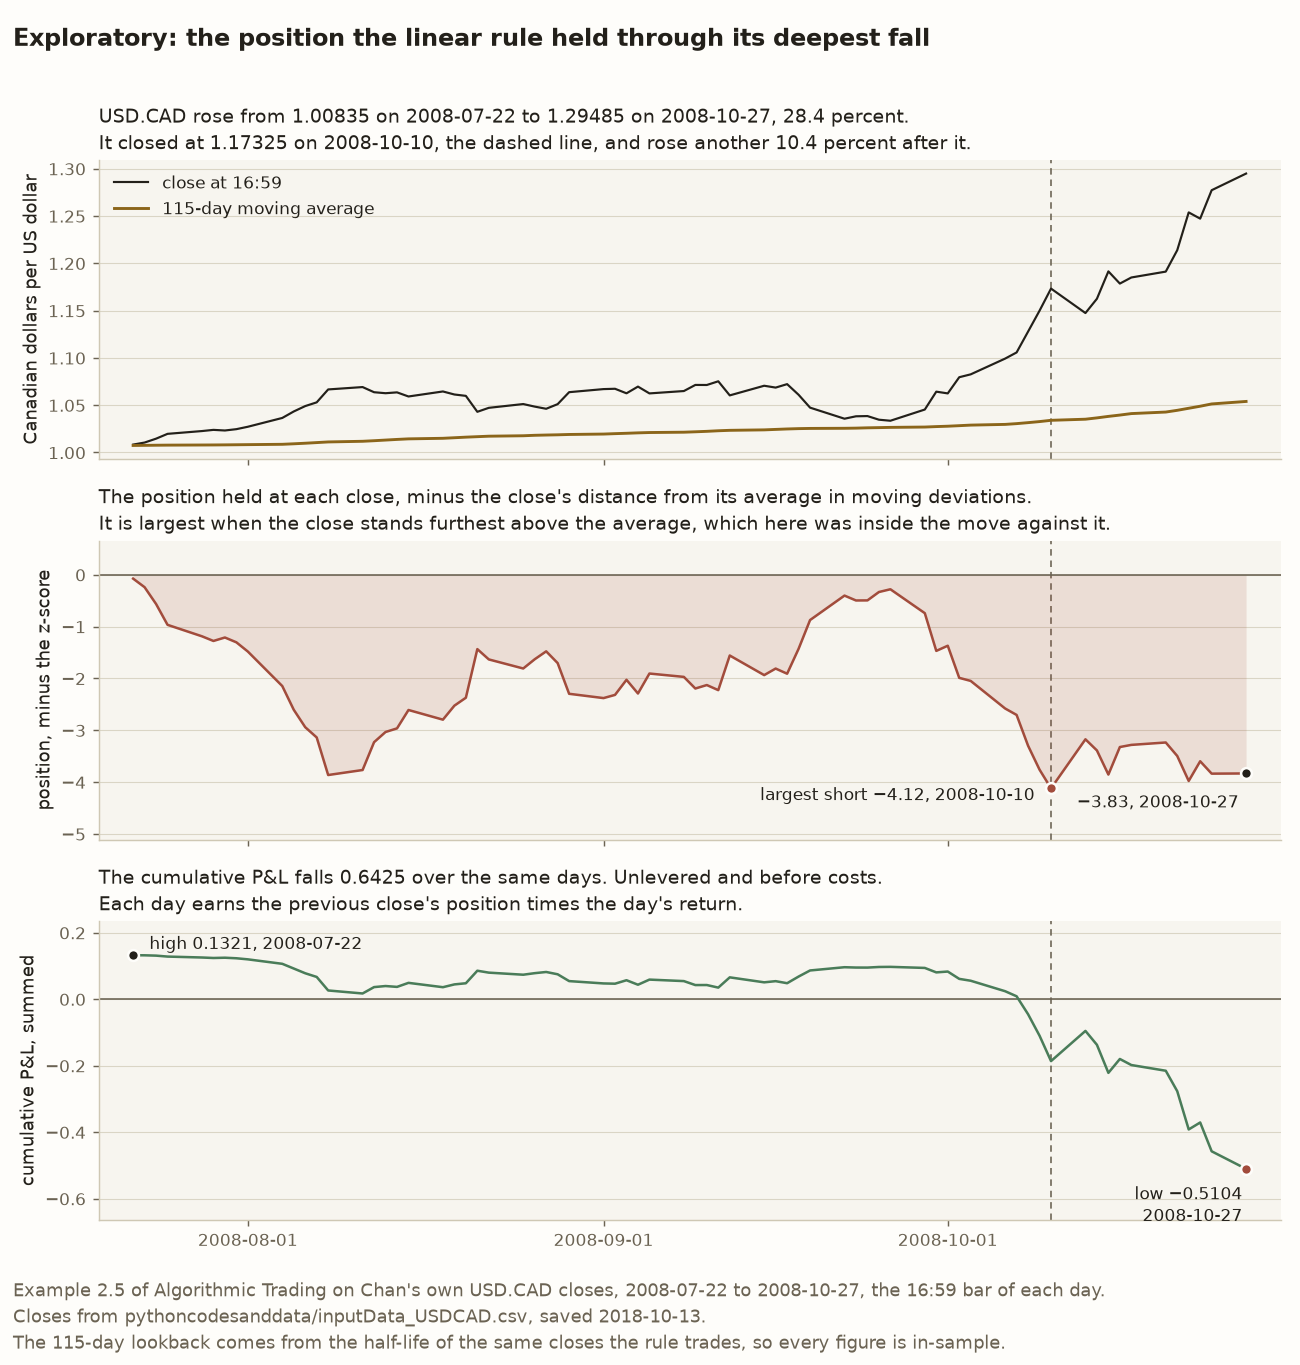
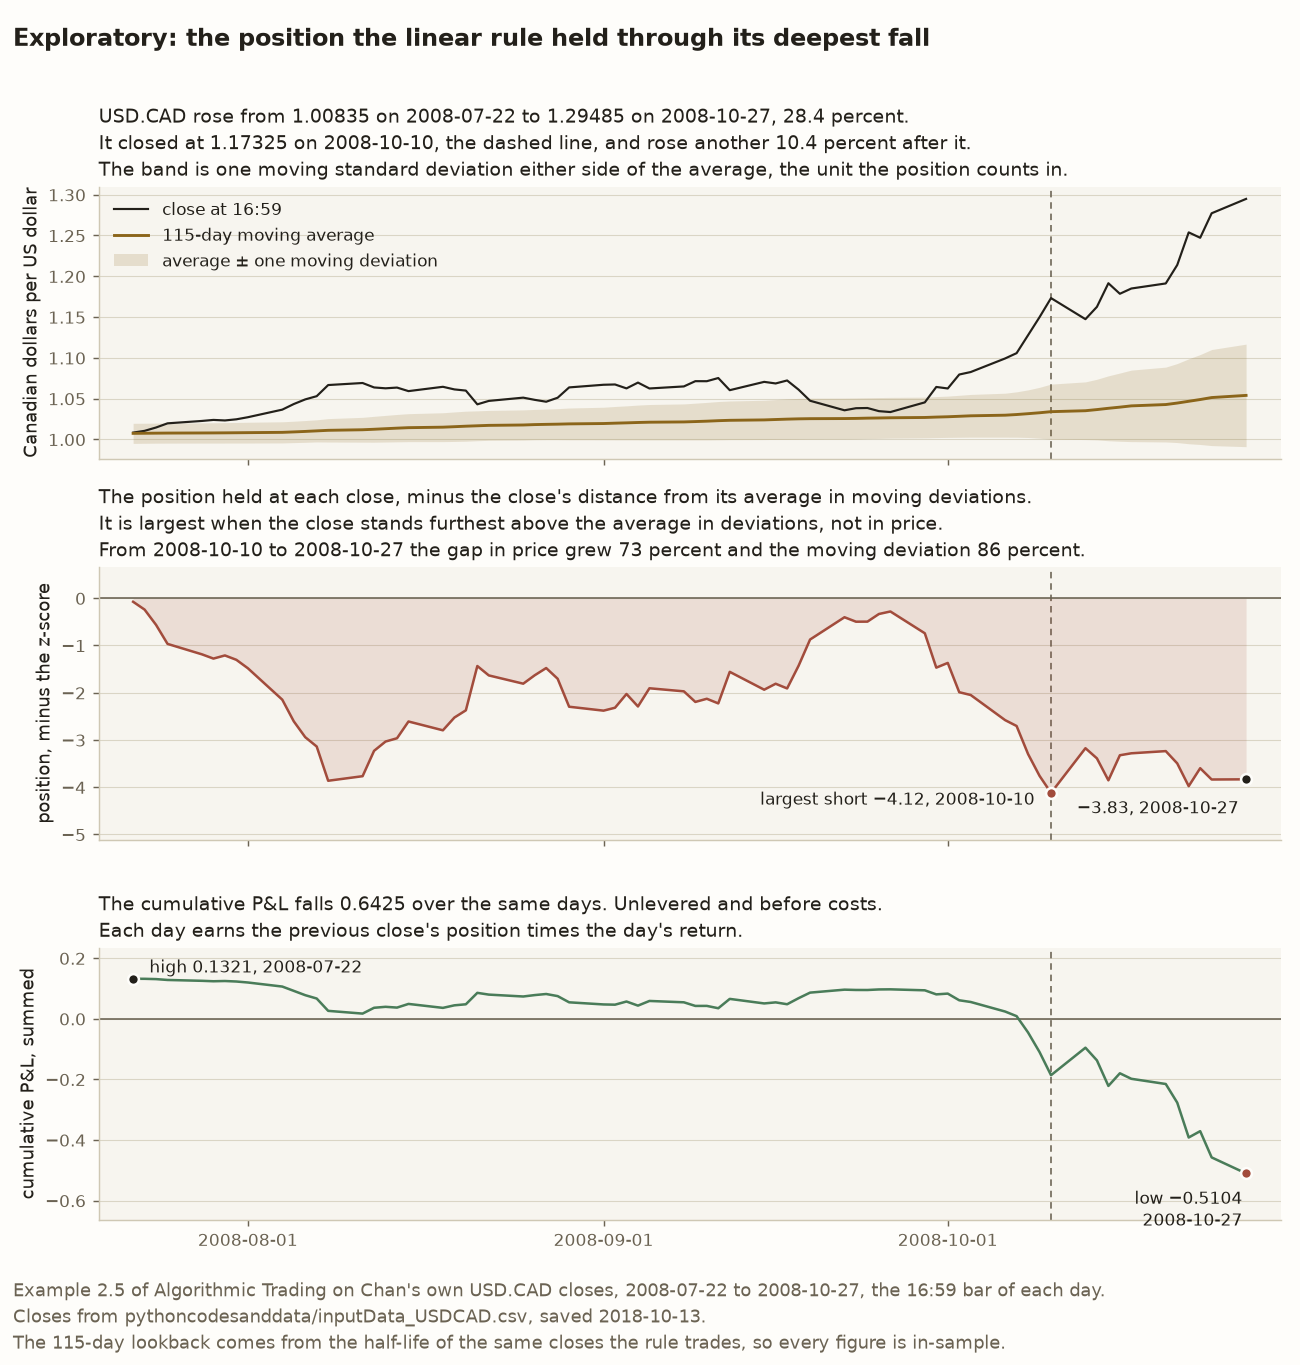
fix(figures): say the Lesson 4 chart's largest short is furthest above the average in deviations, and draw the deviation band
The middle panel of usdcad_fall_position.png said the position is largest
when the close stands furthest above the average. In price that is false.
The gap is widest on 2008-10-27, 0.2409 against 0.1392 on 2008-10-10, yet
the short there is −3.83 against −4.12. The position counts the gap in
115-day moving standard deviations, and the deviation grew from 0.0338 to
0.0628 over those days.

The heading now says the largest short is furthest above the average in
deviations, not in price, and that from 2008-10-10 to 2008-10-27 the gap
grew 73 percent and the moving deviation 86 percent. Both percentages are
read from the run. The top panel draws a band of one moving deviation either
side of the average, so the widening is visible, and its heading and legend
name the band.

New tests pin the band as movingAvg ± movingStd over the run's lookback, its
half-width on the two marked days, and that the widest gap in price falls on
a different day from the largest short. The post's alt text and caption and
the README's list of panels describe the band.

diff --git a/tests/test_usdcad_mean_reversion_figures.py b/tests/test_usdcad_mean_reversion_figures.py
@@ -32,7 +32,7 @@ from matplotlib.dates import DateFormatter, MonthLocator, YearLocator, date2num,
 
 from chan import paths, usdcad_mean_reversion
 from chan import usdcad_mean_reversion_figures as figures
-from chan.matlab_helpers import moving_avg
+from chan.matlab_helpers import moving_avg, moving_std
 from chan.paths import FIGURES_DIR
 from chan.regime_figure import ACCENT, GOOD, INK, LOST
 from chan.series import WindowCrossesScaleBreak
@@ -47,6 +47,7 @@ from chan.usdcad_mean_reversion_figures import (
     make_usdcad_fall_figure,
     make_usdcad_figure,
     moving_average,
+    moving_deviation,
     position,
     signed,
 )
@@ -417,6 +418,14 @@ def _anchor(ax, gid: str) -> tuple[pd.Timestamp, float]:
     return pd.Timestamp(day), float(value)
 
 
+def _band(ax) -> pd.DataFrame:
+    """The deviation band's lower and upper edge on each day it covers, read from its outline."""
+    outline = _by_gid(ax.collections)["deviation-band"].get_paths()[0].vertices
+    edges = pd.DataFrame(outline, columns=["day", "y"]).groupby("day")["y"].agg(["min", "max"])
+    edges.index = [pd.Timestamp(num2date(d)).tz_localize(None) for d in edges.index]
+    return edges.rename(columns={"min": "low", "max": "high"})
+
+
 class TestTheFall:
     """Lesson 4's figure, three panels on the 70 closes from the peak to the trough."""
 
@@ -506,16 +515,86 @@ class TestTheFallCloses:
         assert same_color(lines["closes"].get_color(), INK)
         assert same_color(lines["moving-average"].get_color(), ACCENT)
 
-    def test_the_heading_names_the_rise_and_the_close_on_the_dashed_day(self, fall_axes) -> None:
+    def test_the_heading_names_the_rise_the_close_on_the_dashed_day_and_the_band(
+        self, fall_axes
+    ) -> None:
         assert _title(fall_axes["closes"]) == (
             "USD.CAD rose from 1.00835 on 2008-07-22 to 1.29485 on 2008-10-27, 28.4 percent.\n"
             "It closed at 1.17325 on 2008-10-10, the dashed line, and rose another 10.4 "
-            "percent after it."
+            "percent after it.\nThe band is one moving standard deviation either side of the "
+            "average, the unit the position counts in."
         ), SPEC
 
-    def test_the_legend_names_both_lines(self, fall_axes) -> None:
+    def test_the_legend_names_both_lines_and_the_band(self, fall_axes) -> None:
         legend = [t.get_text() for t in fall_axes["closes"].get_legend().get_texts()]
-        assert legend == ["close at 16:59", "115-day moving average"]
+        assert legend == [
+            "close at 16:59",
+            "115-day moving average",
+            "average ± one moving deviation",
+        ]
+
+
+class TestTheFallBand:
+    """The band of one moving deviation either side of the average, in the top panel.
+
+    The position counts the close's distance from the average in moving
+    deviations, so the band is what shows that a wider gap in price on the
+    trough day counted for fewer deviations than the gap on the day of the
+    largest short. The two deviations are ``movingStd`` over the run's 115-day
+    lookback on the vintage and specification ``SPEC`` names.
+    """
+
+    def test_it_is_movingstd_either_side_of_movingavg_on_every_day_of_the_fall(
+        self, fall_axes, result
+    ) -> None:
+        days = fall_days(result)
+        y = result.closes.to_numpy(dtype=float)
+        average = pd.Series(moving_avg(y, 115), index=result.closes.index)[days]
+        deviation = pd.Series(moving_std(y, 115), index=result.closes.index)[days]
+        band = _band(fall_axes["closes"])
+        assert list(band.index) == list(days), SPEC
+        np.testing.assert_allclose(band["low"], average - deviation, rtol=0, atol=1e-12)
+        np.testing.assert_allclose(band["high"], average + deviation, rtol=0, atol=1e-12)
+        np.testing.assert_array_equal(moving_deviation(result)[days].to_numpy(), deviation)
+
+    def test_its_half_width_is_the_moving_deviation_on_the_two_marked_days(self, fall_axes) -> None:
+        band = _band(fall_axes["closes"])
+        half = (band["high"] - band["low"]) / 2
+        assert half[DEEPEST] == pytest.approx(0.0337985635, abs=5e-11), SPEC
+        assert half[TROUGH] == pytest.approx(0.0628484665, abs=5e-11), SPEC
+
+    def test_the_deviation_is_wider_on_the_trough_day_than_on_the_day_of_the_largest_short(
+        self, fall_axes
+    ) -> None:
+        band = _band(fall_axes["closes"])
+        half = (band["high"] - band["low"]) / 2
+        assert half[TROUGH] > half[DEEPEST], SPEC
+
+    def test_the_largest_short_is_not_on_the_day_of_the_widest_gap_in_price(
+        self, fall_axes
+    ) -> None:
+        """What the middle panel's heading says, so the heading cannot silently go false.
+
+        The gap in price is widest on the trough day, 0.2409000000 against
+        0.1392452174 on the day of the largest short, and the short there is
+        still smaller."""
+        lines = _by_gid(fall_axes["closes"].lines)
+        days = _days(lines["closes"])
+        gap = pd.Series(
+            np.asarray(lines["closes"].get_ydata())
+            - np.asarray(lines["moving-average"].get_ydata()),
+            index=days,
+        )
+        held = pd.Series(_by_gid(fall_axes["position"].lines)["position"].get_ydata(), index=days)
+        assert gap.idxmax() == TROUGH, SPEC
+        assert held.idxmin() == DEEPEST, SPEC
+        assert gap.idxmax() != held.idxmin(), SPEC
+        assert gap[TROUGH] == pytest.approx(0.2409000000, abs=5e-11), SPEC
+        assert gap[DEEPEST] == pytest.approx(0.1392452174, abs=5e-11), SPEC
+
+    def test_it_is_the_average_colour(self, fall_axes) -> None:
+        band = _by_gid(fall_axes["closes"].collections)["deviation-band"]
+        assert same_color(band.get_facecolor()[0][:3], ACCENT)
 
 
 class TestTheFallPosition:
@@ -560,8 +639,9 @@ class TestTheFallPosition:
         assert _title(fall_axes["position"]) == (
             "The position held at each close, minus the close's distance from its average in "
             "moving deviations.\nIt is largest when the close stands furthest above the "
-            "average, which here was inside the move against it."
-        )
+            "average in deviations, not in price.\nFrom 2008-10-10 to 2008-10-27 the gap in "
+            "price grew 73 percent and the moving deviation 86 percent."
+        ), SPEC
         assert fall_axes["position"].get_ylabel() == "position, minus the z-score"
 
 
@@ -653,6 +733,11 @@ class TestTheFallFollowsTheRun:
         assert _by_gid(drawn["closes"].lines)["moving-average"].get_label() == (
             "106-day moving average"
         )
+        y = run.closes.to_numpy(dtype=float)
+        deviation = pd.Series(moving_std(y, 106), index=run.closes.index)[days]
+        band = _band(drawn["closes"])
+        np.testing.assert_allclose((band["high"] - band["low"]) / 2, deviation, rtol=0, atol=1e-12)
+        assert "From 2008-10-15 to 2008-10-27 the gap in price grew" in _title(drawn["position"])
 
     def test_none_of_them_is_the_committed_runs(self, drawn) -> None:
         printed = " ".join(
@@ -662,10 +747,20 @@ class TestTheFallFollowsTheRun:
                 _text(drawn["pnl"], "peak-label"),
                 _text(drawn["pnl"], "trough-label"),
                 _title(drawn["closes"]),
+                _title(drawn["position"]),
                 _title(drawn["pnl"]),
             ]
         )
-        for committed in ("−4.12", "−3.83", "0.1321", "−0.5104", "0.6425", "2008-10-10"):
+        for committed in (
+            "−4.12",
+            "−3.83",
+            "0.1321",
+            "−0.5104",
+            "0.6425",
+            "2008-10-10",
+            "73 percent",
+            "86 percent",
+        ):
             assert committed not in printed, committed
 
     def test_the_window_follows_the_runs_peak(self, tmp_path, sources) -> None:

diff --git a/src/chan/usdcad_mean_reversion_figures.py b/src/chan/usdcad_mean_reversion_figures.py
@@ -18,7 +18,11 @@ Lesson 4 of the post then reads the deepest fall day by day, and
 one date axis from the fall's peak to its trough, and a thin vertical line
 crosses all three on the day of the largest short.
 
-1. The closes and their moving average, as in the first figure's top panel.
+1. The closes and their moving average, as in the first figure's top panel,
+   with a band of one moving standard deviation either side of the average.
+   The position counts the close's distance from the average in that unit, so
+   the band shows why the largest short is not where the gap in price is
+   widest.
 2. The position the rule holds at each close, which is
    :func:`chan.usdcad_mean_reversion.market_value`, with the largest short and
    the position on the trough day marked. The script never plots it.
@@ -31,8 +35,9 @@ the scale-break guard runs here too. The run keeps its moving average inside
 :func:`chan.usdcad_mean_reversion.linear_mean_reversion` rather than returning
 it, so the top panel draws it with the same ``movingAvg`` over the run's own
 lookback. The second figure reads the position the same way, from
-``market_value`` over the run's own lookback. Every value and date either
-figure prints comes from the run. Redraw both with::
+``market_value`` over the run's own lookback, and its band from ``movingStd``
+over the same lookback. Every value and date either figure prints comes from
+the run. Redraw both with::
 
     uv run python -m chan.usdcad_mean_reversion_figures
 """
@@ -46,7 +51,7 @@ from matplotlib.dates import DateFormatter, MonthLocator, YearLocator
 from matplotlib.figure import Figure
 
 from chan.coin_flip_figures import _plain_text, _save, _style, _title
-from chan.matlab_helpers import moving_avg
+from chan.matlab_helpers import moving_avg, moving_std
 from chan.paths import FIGURES_DIR
 from chan.regime_figure import ACCENT, GOOD, INK, LOST, MUTED, SURFACE
 from chan.series import WindowCrossesScaleBreak
@@ -69,6 +74,13 @@ def moving_average(run: StationarityRun) -> pd.Series:
     """``movingAvg(y, lookback)`` on the run's closes, NaN until the window fills."""
     return pd.Series(
         moving_avg(run.closes.to_numpy(dtype=float), run.lookback), index=run.closes.index
+    )
+
+
+def moving_deviation(run: StationarityRun) -> pd.Series:
+    """``movingStd(y, lookback)`` on the run's closes, the unit the position counts in."""
+    return pd.Series(
+        moving_std(run.closes.to_numpy(dtype=float), run.lookback), index=run.closes.index
     )
 
 
@@ -200,10 +212,14 @@ def make_usdcad_fall_figure(
     peak, trough = run.drawdown.peak, run.drawdown.trough
     held = position(run)[days]
     average = moving_average(run)[days]
+    deviation = moving_deviation(run)[days]
     cumulative = cumulative_pnl(run)[days]
     deepest = held.idxmin()
     rise = run.closes[trough] / run.closes[peak] - 1
     further = run.closes[trough] / run.closes[deepest] - 1
+    gap = run.closes[days] - average
+    gap_grew = gap[trough] / gap[deepest] - 1
+    deviation_grew = deviation[trough] / deviation[deepest] - 1
 
     fig = Figure(figsize=(10, 10.5), dpi=130)
     fig.patch.set_facecolor(SURFACE)
@@ -221,6 +237,16 @@ def make_usdcad_fall_figure(
         gid="moving-average",
         label=f"{run.lookback}-day moving average",
     )
+    close_ax.fill_between(
+        days,
+        average - deviation,
+        average + deviation,
+        color=ACCENT,
+        alpha=0.16,
+        lw=0,
+        gid="deviation-band",
+        label="average ± one moving deviation",
+    )
     close_ax.set_ylabel("Canadian dollars per US dollar", color=INK, fontsize=10)
     close_ax.legend(loc="upper left", frameon=False, fontsize=9.5, labelcolor=INK)
     _heading(
@@ -228,7 +254,8 @@ def make_usdcad_fall_figure(
         f"USD.CAD rose from {run.closes[peak]:.5f} on {peak.date()} to "
         f"{run.closes[trough]:.5f} on {trough.date()}, {100 * rise:.1f} percent.\n"
         f"It closed at {run.closes[deepest]:.5f} on {deepest.date()}, the dashed line, and "
-        f"rose another {100 * further:.1f} percent after it.",
+        f"rose another {100 * further:.1f} percent after it.\nThe band is one moving "
+        "standard deviation either side of the average, the unit the position counts in.",
     )
 
     held_ax.axhline(0, color=MUTED, lw=0.9, gid="zero")
@@ -258,8 +285,11 @@ def make_usdcad_fall_figure(
     _heading(
         held_ax,
         "The position held at each close, minus the close's distance from its average in "
-        "moving deviations.\nIt is largest when the close stands furthest above the average, "
-        "which here was inside the move against it.",
+        "moving deviations.\nIt is largest when the close stands furthest above the average "
+        "in deviations, not in price.\n"
+        f"From {deepest.date()} to {trough.date()} the gap in price grew "
+        f"{100 * gap_grew:.0f} percent and the moving deviation {100 * deviation_grew:.0f} "
+        "percent.",
     )
 
     pnl_ax.axhline(0, color=MUTED, lw=0.9, gid="zero")

diff --git a/blog/usdcad-stationarity-lessons.md b/blog/usdcad-stationarity-lessons.md
@@ -171,9 +171,9 @@ The top panel shows what the rule bet against. Across the fall, USD.CAD rose fro
 
 That is the third of the cautions Chan names: “an unlimited amount of capital may be needed” because nothing caps the position (Chan, 2013, p. 50). The rule’s largest short came on 2008-10-10, inside the fall, when the close stood 4.12 moving standard deviations above its average and the position was −4.12. The close rose another 10.4 percent by 2008-10-27, but the moving deviation widened with it, so the short eased to −3.83. The position is largest when the close stands furthest above its average in deviations, and here that was inside the move against it. Its largest long, 3.04, came on 2009-05-29.
 
-![Three charts stacked on one shared date axis from 2008-07-22 to 2008-10-27, the days of the rule’s deepest fall. The top chart shows USD.CAD’s daily closes rising from 1.00835 to 1.29485. They hold between about 1.03 and 1.08 through August and September and climb steeply in October, while the brown 115-day moving average creeps from about 1.01 to about 1.05 below them. The middle chart shows the position the rule held at each close as a red line below a zero line, short at every close, with the area down to it shaded. It dips to about −3.9 in early August, eases to about −0.3 in late September, then drops to its largest short, −4.12 on 2008-10-10, marked with a red dot. It ends at −3.83 on 2008-10-27, marked with a black dot. The bottom chart shows the cumulative P&L as a green line. It starts at its high of 0.1321 on 2008-07-22, marked with a black dot, sags to about 0.02 in mid-August, recovers to near 0.10 in September, and turns negative in early October. It falls to its low of −0.5104 on 2008-10-27, marked with a red dot. A dashed vertical line crosses all three charts on 2008-10-10. The title calls the chart exploratory.](../docs/figures/usdcad_fall_position.png)
+![Three charts stacked on one shared date axis from 2008-07-22 to 2008-10-27, the days of the rule’s deepest fall. The top chart shows USD.CAD’s daily closes rising from 1.00835 to 1.29485. They hold between about 1.03 and 1.08 through August and September and climb steeply in October, while the brown 115-day moving average creeps from about 1.01 to about 1.05 below them. A pale brown band spans one moving standard deviation either side of the average. It stays narrow through September and widens in October, from about 1.00 to 1.07 on 2008-10-10 to about 0.99 to 1.12 on 2008-10-27, so the close’s wider gap above the average on the last day counts for fewer deviations than its gap on 2008-10-10. The middle chart shows the position the rule held at each close as a red line below a zero line, short at every close, with the area down to it shaded. It dips to about −3.9 in early August, eases to about −0.3 in late September, then drops to its largest short, −4.12 on 2008-10-10, marked with a red dot. It ends at −3.83 on 2008-10-27, marked with a black dot. The bottom chart shows the cumulative P&L as a green line. It starts at its high of 0.1321 on 2008-07-22, marked with a black dot, sags to about 0.02 in mid-August, recovers to near 0.10 in September, and turns negative in early October. It falls to its low of −0.5104 on 2008-10-27, marked with a red dot. A dashed vertical line crosses all three charts on 2008-10-10. The title calls the chart exploratory.](../docs/figures/usdcad_fall_position.png)
 
-*The linear rule’s deepest fall, from the P&L’s high on 2008-07-22 to its low on 2008-10-27, redrawn on Chan’s closes. The panels show USD.CAD’s close, the position the rule held at each close, and the cumulative P&L. The dashed line marks 2008-10-10, the day of the largest short. The script plots no position, so the middle panel has no counterpart in the book.*
+*The linear rule’s deepest fall, from the P&L’s high on 2008-07-22 to its low on 2008-10-27, redrawn on Chan’s closes. The panels show USD.CAD’s close with a band of one moving standard deviation either side of its average, the position the rule held at each close, and the cumulative P&L. The dashed line marks 2008-10-10, the day of the largest short. The script plots no position, so the middle panel has no counterpart in the book.*
 
 Most of the loss came in 2008, which ended with the P&L at −0.2552, and the three years and three months after it added 0.3693. Over the 1,101 days the rule holds a position, it is short on 488 and long on 613.
 

diff --git a/README.md b/README.md
@@ -4489,7 +4489,8 @@ The second, `usdcad_fall_position.png`, draws three panels on one date axis
 over that fall alone, with a dashed line through all three on 2008-10-10, the
 day of the largest short.
 
-1. The closes with their moving average, as in the first.
+1. The closes with their moving average, as in the first, and a band of one
+   moving standard deviation either side of the average.
 2. The position the rule held at each close, from `market_value`, with the
    largest short of −4.12 and the −3.83 held on 2008-10-27 marked. The script
    plots no position.
